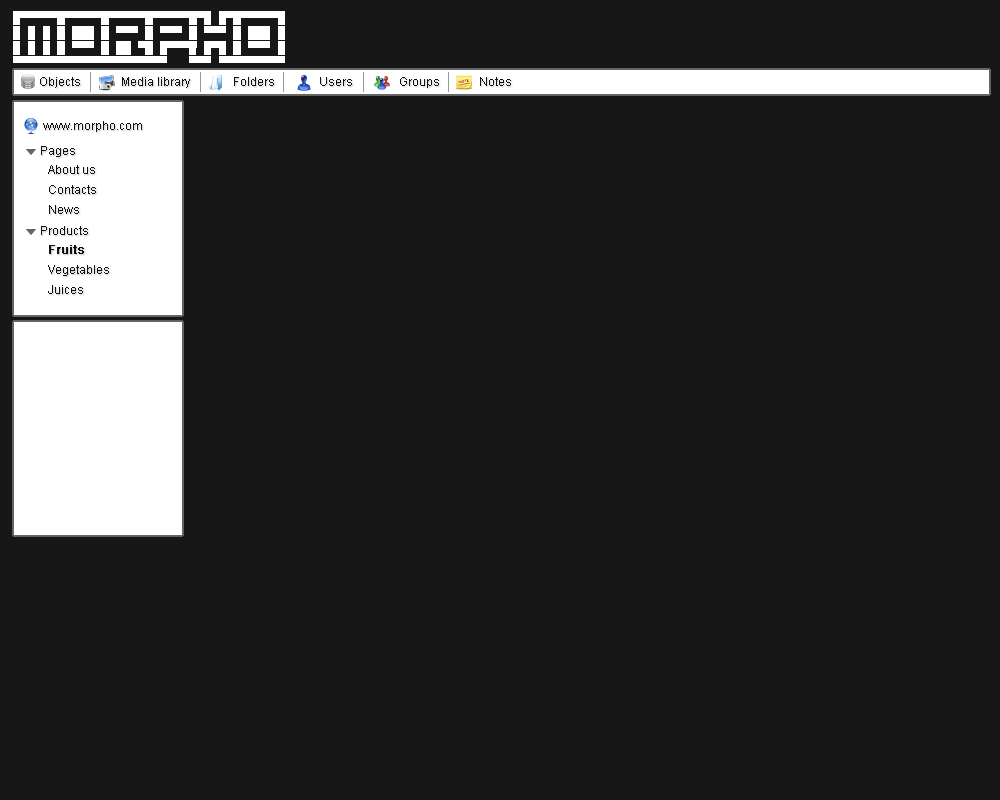
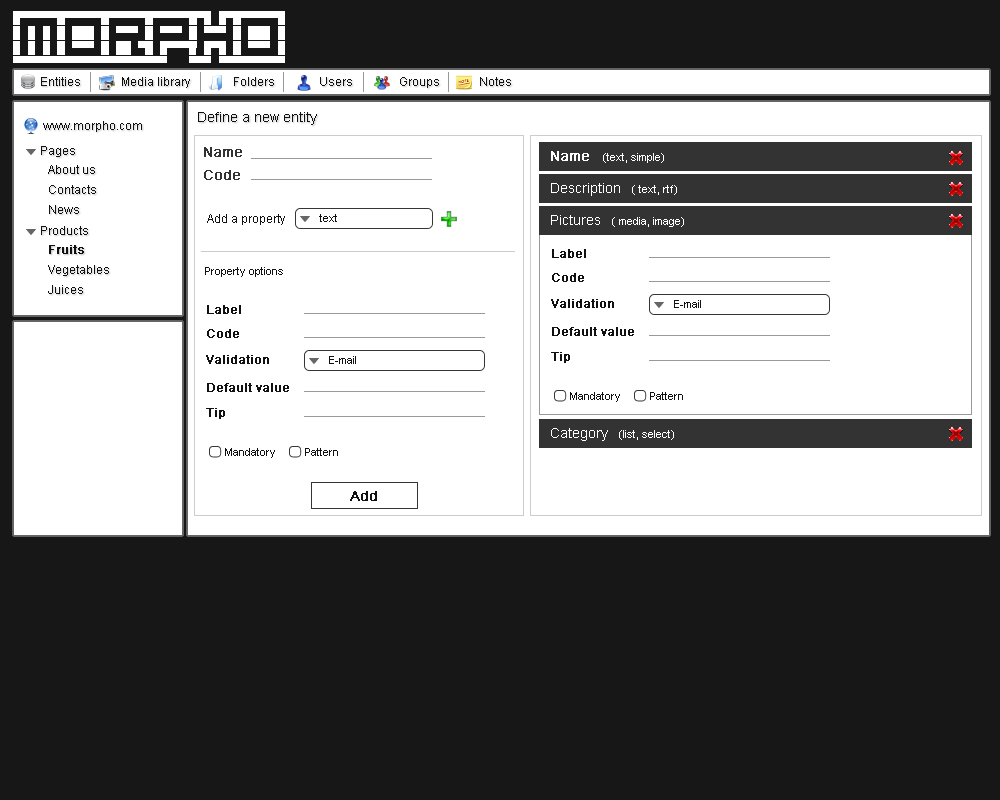
filesystem reorganization, building html template

diff --git a/css/morpho.css b/css/morpho.css
@@ -1,0 +1,54 @@
+html {
+	background:#171717;
+	color:#333;
+}
+a {
+	color:#333;
+	text-decoration:none;
+}
+a:hover {
+	text-decoration:underline;
+}
+.yui-t2 .yui-b {
+	width:14.1em;
+}
+#hd {
+	padding:10px 0 0 0;
+	margin:0 0 5px 0;
+}
+#logo {
+	background:transparent url(../images/logo.png) no-repeat;
+	display:block;
+	width:272px;
+	height:52px;
+	text-indent:-10000px;
+}
+#top-menu {
+	height:24px;
+	border:2px solid #666;
+	background:#fff;
+	margin:5px 0 0 0;
+}
+#top-menu li {
+	float:left;
+	display:block;
+	margin:4px 10px 0 5px;
+	padding:0 15px 0 0;
+	text-indent:20px;
+	background:transparent url(../images/icons.png) no-repeat top left;
+	border-right:1px solid #999;
+}
+#top-menu li.media {
+	background-position:0px -16px;
+}
+#top-menu li.folders {
+	background-position:0px -32px;
+}
+#top-menu li.users {
+	background-position:0px -48px;
+}
+#sidebar, #main {
+	border:2px solid #666;
+	background:#fff;
+	min-height:100px;
+}

diff --git a/index.php b/index.php
@@ -1,6 +1,42 @@
-<?php
+<!DOCTYPE HTML PUBLIC "-//W3C//DTD HTML 4.01//EN"
+ "http://www.w3.org/TR/html4/strict.dtd">
+<html>
+<head>
+   <title>Morpho CMS</title>
+   <meta http-equiv="Content-Type" content="text/html; charset=utf-8"/>
+   <link rel="stylesheet" href="http://yui.yahooapis.com/2.8.0r4/build/reset-fonts-grids/reset-fonts-grids.css" type="text/css">
+	<link rel="stylesheet" href="css/morpho.css">
+</head>
+<body>
+<div id="doc4" class="yui-t2">
+   <div id="hd">
+   	<a href="/" id="logo">Morpho</a>
+   	<ul id="top-menu">
+   		<li class="entities">
+   			<a href="#">Entities</a>
+   		</li>
+   		<li class="media">
+   			<a href="#">Media library</a>
+   		</li>
+   		<li class="folders">
+   			<a href="#">Folders</a>
+   		</li>
+   		<li class="users">
+   			<a href="#">Users</a>
+   		</li>
+   	</ul>
+   </div>
+   <div id="bd">
+	<div id="yui-main">
+	<div class="yui-b">
+		<div class="yui-g" id="main">
+		<!-- YOUR DATA GOES HERE -->
+		</div>
+	</div>
+	</div>
+	<div class="yui-b" id="sidebar"><!-- YOUR NAVIGATION GOES HERE --></div>
 	
-include 'biz/instance.biz.php';
-$biz = new InstanceBiz();
-$biz->GetList();
-?>
+	</div>   
+</div>
+</body>
+</html>

diff --git a/morpho/biz/entity.biz.php b/morpho/biz/entity.biz.php
@@ -1,0 +1,14 @@
+<?php
+
+include 'dal/entity.dal.php';
+
+class EntityBiz
+{
+	public function GetList()
+	{
+		$dal = new EntityDataLayer();
+		$dal->GetList(null);
+	}
+}
+
+?>

diff --git a/morpho/biz/base.php b/morpho/biz/base.php
@@ -1,0 +1,13 @@
+<?php
+
+include_once "dal/instance.dal.php";
+
+class Base
+{
+	public function GetList()
+	{
+		call_user_func(array($classname, 'say_hello'));
+	}
+}
+
+?>

diff --git a/morpho/entities/object.php b/morpho/entities/object.php
@@ -1,0 +1,13 @@
+<?php
+	
+class Entity
+{
+	public $id;
+	public $code;
+	public $name;
+	public $model;
+	public $meta;
+	public $parent;
+}
+
+?>
